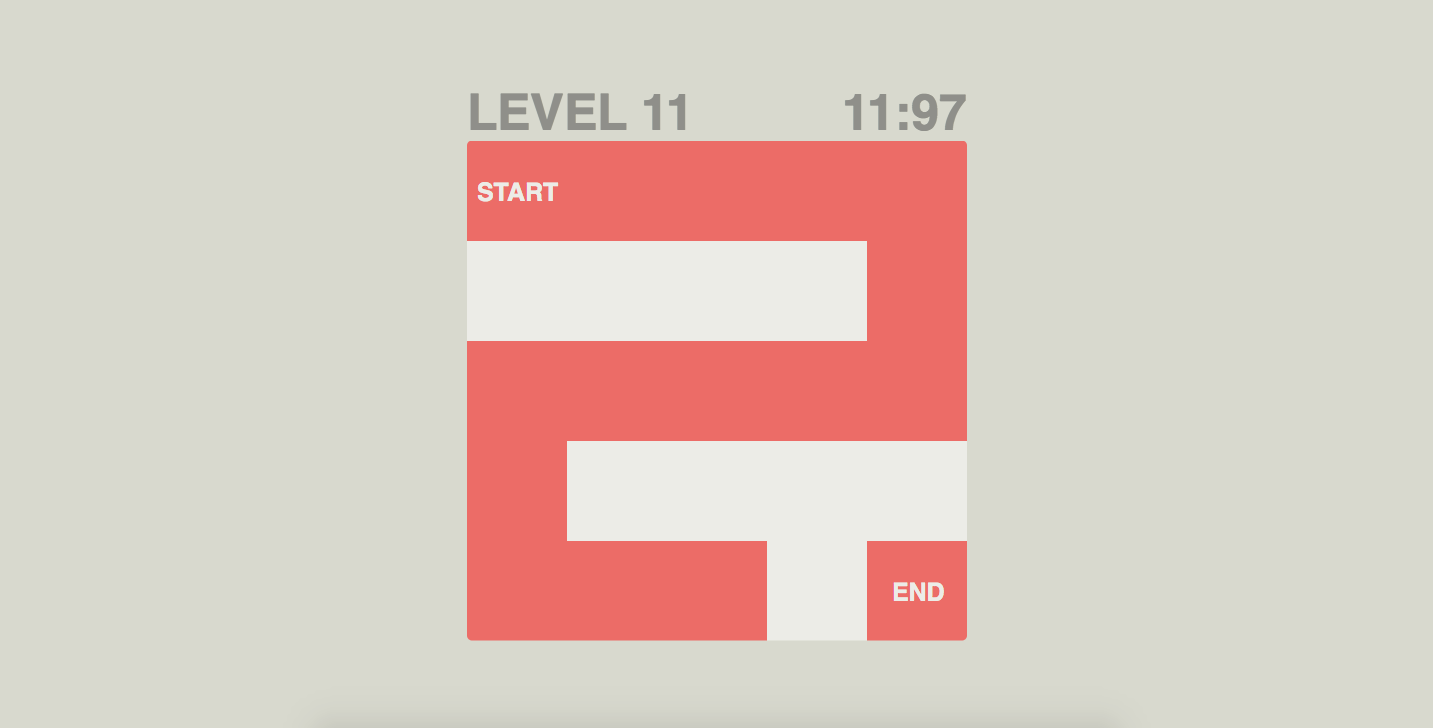
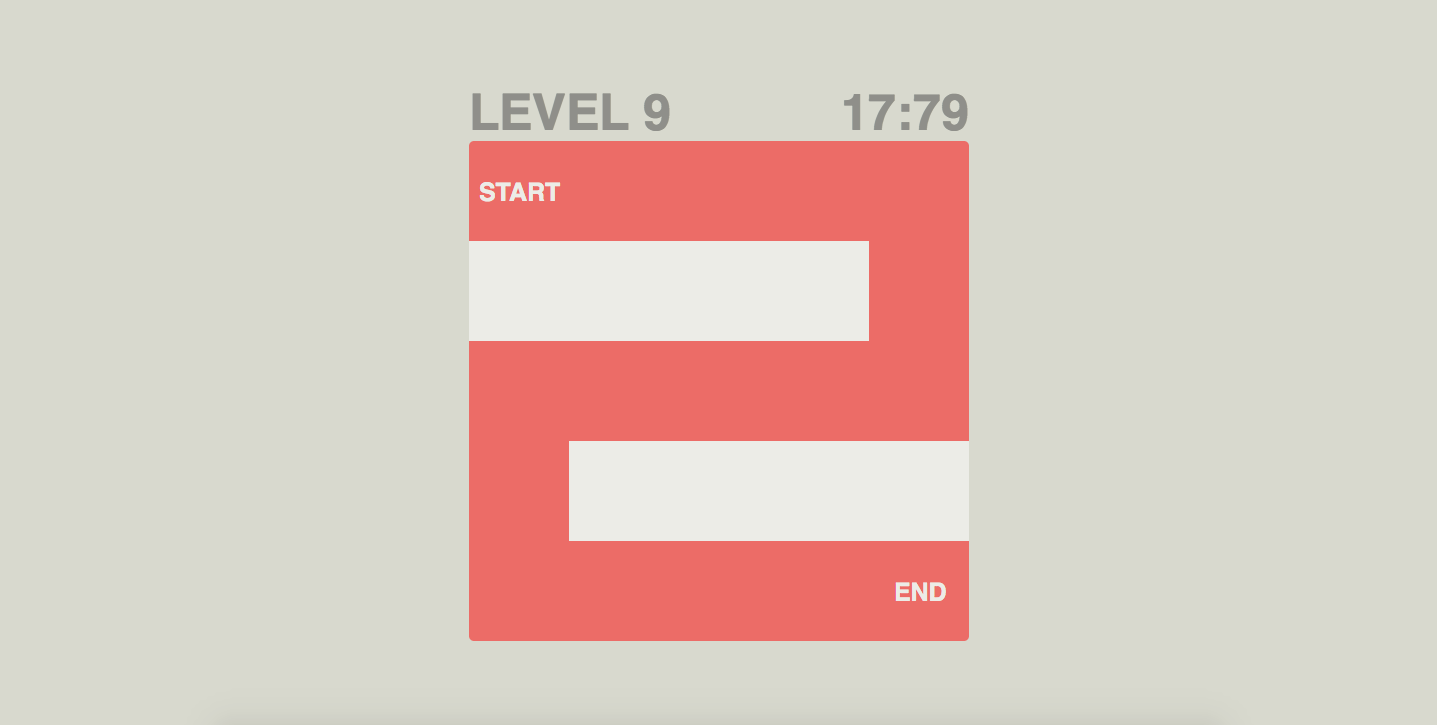
edit

diff --git a/index.js b/index.js
@@ -25,19 +25,19 @@ board = board_generate(grid);
 maze = { // [y, x]
     1: [[0,0],[0,1],[0,2]],
     2: [[1,0],[1,1],[1,2],[1,3],[1,4]],
-    3: [[1,0],[2,0],[3,0]],
-    4: [[0,1],[1,1],[2,1],[3,1],[4,1]],
-    5: [[0,0],[0,1],[0,2],[0,3],[0,4],[1,4],[2,4],[3,4],[4,4]],
-    6: [[0,0],[1,0],[2,0],[3,0],[4,0],[4,1],[4,2],[4,3],[4,4]],
-    7: [[4,0],[4,1],[4,2],[4,3],[4,4],[3,4],[2,4]],
-    8: [[4,4],[3,4],[2,4],[1,4],[0,4],[0,3],[0,2]],
-    9: [[0,0],[0,1],[0,2],[1,2],[2,2],[3,2],[4,2],[4,3],[4,4]],
-    10: [[0,0],[1,0],[2,0],[3,0],[4,0],[4,1],[4,2],[4,3],[4,4],[3,4],[2,4],[1,4],[0,4]],
-    11: [[0,0],[0,1],[0,2],[0,3],[0,4],[1,4],[2,4],[2,3],[2,2],[2,1],[2,0],[3,0],[4,0],[4,1],[4,2],[4,3],[4,4]],
-    12: [[0,0],[0,1],[1,1],[1,2],[2,2],[2,3],[3,3],[3,4],[4,4]],
-    13: [[0,0],[0,1],[0,2],[0,3],[0,4],[1,4],[1,3],[1,2],[1,1],[1,0],[2,0],[2,1],[2,2],[2,3],[2,4],[3,4],[3,3],[3,2],[3,1],[3,0],[4,0],[4,1],[4,2],[4,3],[4,4]],
-    14: [[2,2],[2,3],[1,3],[1,2],[1,1],[2,1],[3,1],[3,2],[3,3],[3,4],[2,4],[1,4],[0,4],[0,3],[0,2],[0,1],[0,0],[1,0],[2,0],[3,0],[4,0],[4,1],[4,2],[4,3],[4,4]],
-    15: [[0,0],[0,1],[1,1],[1,0],[2,0],[2,1],[2,2],[1,2],[0,2],[0,3],[1,3],[2,3],[3,3],[3,2],[3,1],[3,0],[4,0],[4,1],[4,2],[4,3],[4,4],[3,4],[2,4],[1,4],[0,4]]
+    3: [[0,0],[0,1],[0,2],[0,3],[0,4],[1,4],[2,4],[3,4],[4,4]],
+    4: [[0,0],[0,1],[0,2],[1,2],[2,2],[3,2],[4,2],[4,3],[4,4]],
+    5: [[0,0],[0,1],[0,2],[0,3],[0,4],[1,4],[2,4],[3,4],[4,4],[4,3],[3,3],[2,3],[1,3]],
+    6: [[0,0],[1,0],[2,0],[3,0],[4,0],[4,1],[4,2],[4,3],[4,4],[3,4],[2,4],[1,4],[0,4],[0,3],[0,2],[0,1]],
+    7: [[3,3],[3,2],[3,1],[3,0],[2,0],[1,0],[0,0],[0,1],[1,1],[2,1],[2,2],[2,3],[1,3],[0,3]],
+    8: [[0,0],[0,1],[1,1],[1,2],[2,2],[2,3],[3,3],[3,4],[4,4]],
+    9: [[0,0],[0,1],[0,2],[0,3],[0,4],[1,4],[2,4],[2,3],[2,2],[2,1],[2,0],[3,0],[4,0],[4,1],[4,2],[4,3],[4,4]],
+    10: [[1,0],[1,1],[0,1],[0,2],[0,3],[1,3],[1,4],[2,4],[3,4],[3,3],[4,3],[4,2],[4,1],[3,1],[3,0],[2,0]],
+    11: [[0,0],[0,1],[0,2],[0,3],[0,4],[1,4],[1,3],[1,2],[1,1],[1,0],[2,0],[2,1],[2,2],[2,3],[2,4],[3,4],[3,3],[3,2],[3,1],[3,0],[4,0],[4,1],[4,2],[4,3],[4,4]],
+    12: [[2,2],[2,3],[1,3],[1,2],[1,1],[2,1],[3,1],[3,2],[3,3],[3,4],[2,4],[1,4],[0,4],[0,3],[0,2],[0,1],[0,0],[1,0],[2,0],[3,0],[4,0],[4,1],[4,2],[4,3],[4,4]],
+    13: [[0,0],[0,1],[1,1],[1,0],[2,0],[2,1],[2,2],[1,2],[0,2],[0,3],[1,3],[2,3],[3,3],[3,2],[3,1],[3,0],[4,0],[4,1],[4,2],[4,3],[4,4],[3,4],[2,4],[1,4],[0,4]],
+    14: [[0,0],[0,1],[1,1],[1,2],[2,2],[2,3],[3,3],[3,4],[4,4],[4,3],[4,2],[3,2],[3,1],[2,1],[2,0],[1,0]],
+    15: [[0,0],[0,1],[1,1],[1,0],[2,0],[2,1],[3,1],[3,0],[4,0],[4,1],[4,2],[3,2],[2,2],[1,2],[0,2],[0,3],[0,4],[1,4],[1,3],[2,3],[2,4],[3,4],[3,3],[4,3],[4,4]]
 };
 empty_color = "rgb(255, 255, 255)"; // white
 filled_color = "rgb(255, 0, 0)"; // red
